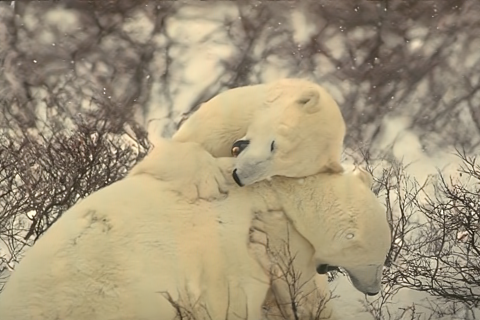
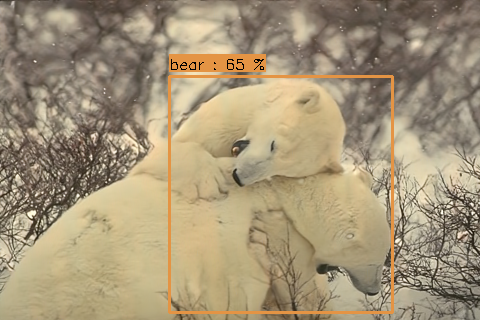
can connect MPRNet and YOLO

Changed region(s): [[0.3438, 0.1562, 0.8438, 1.0]]

diff --git a/MPRNet_Yolo_ver1.py b/MPRNet_Yolo_ver1.py
@@ -63,7 +63,11 @@ os.makedirs(result_dir, exist_ok=True)
 print("Initilize YOLO ....")
 YOLO_MODEL = YOLO(model='./yolo11s.pt', task='detect')
 YOLO_MODEL.cuda()
-labels = YOLO_MODEL.names
+LABELS = YOLO_MODEL.names
+
+
+BBOX_COLOR = [(164,120,87), (68,148,228), (93,97,209), (178,182,133), (88,159,106), 
+              (96,202,231), (159,124,168), (169,162,241), (98,118,150), (172,176,184)]
 
 
 #--------------------   Initial Model MPRNet --------------------------------------
@@ -159,6 +163,29 @@ with torch.no_grad():
 
 
 #--------------------- YOLO Predict -----------------------------
+        detected_image = YOLO_MODEL(source=restored_image)
+        detection_results = detected_image[0].boxes
+        print(f"detect image {loop_idx}")
+
+        object_count = 0
+        for i in range(len(detection_results)):
+            box_tensor = detection_results[i].xyxy.cpu()
+            xyxy = box_tensor.numpy().squeeze()
+            xmin, ymin, xmax, ymax = xyxy.astype(int)
+            classidx = int(detection_results[i].cls.item())
+            classname = LABELS[classidx]
+            conf = detection_results[i].conf.item()
+
+            if conf > 0.5:
+                color_rectangle = BBOX_COLOR[classidx % 10]
+                cv2.rectangle(restored_image, (xmin,ymin), (xmax,ymax), color=color_rectangle, thickness=2)
+                label = f'{classname} : {int(conf * 100)} %'
+                labelSize, baseline = cv2.getTextSize(text=label, fontFace=cv2.FONT_HERSHEY_SIMPLEX, fontScale=0.5, thickness=1)
+                label_ymin = max(ymin, labelSize[1] + 10)
+                cv2.rectangle(restored_image, pt1=(xmin, label_ymin - labelSize[1] - 10), pt2=(xmin + labelSize[0], label_ymin + baseline - 10), color=color_rectangle, thickness= cv2.FILLED)
+                cv2.putText(img=restored_image, text=label, org=(xmin, label_ymin - 7), fontFace=cv2.FONT_HERSHEY_SIMPLEX, fontScale=0.5, color=(0,0,0), thickness=1)
+
+                object_count += 1
 
 
 
